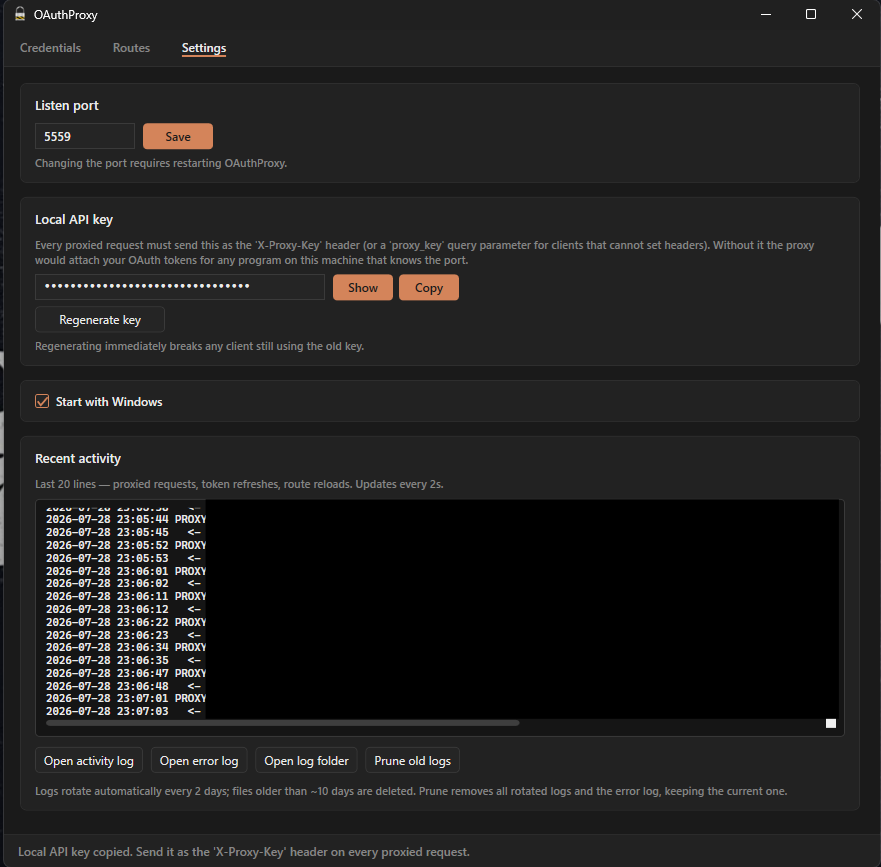
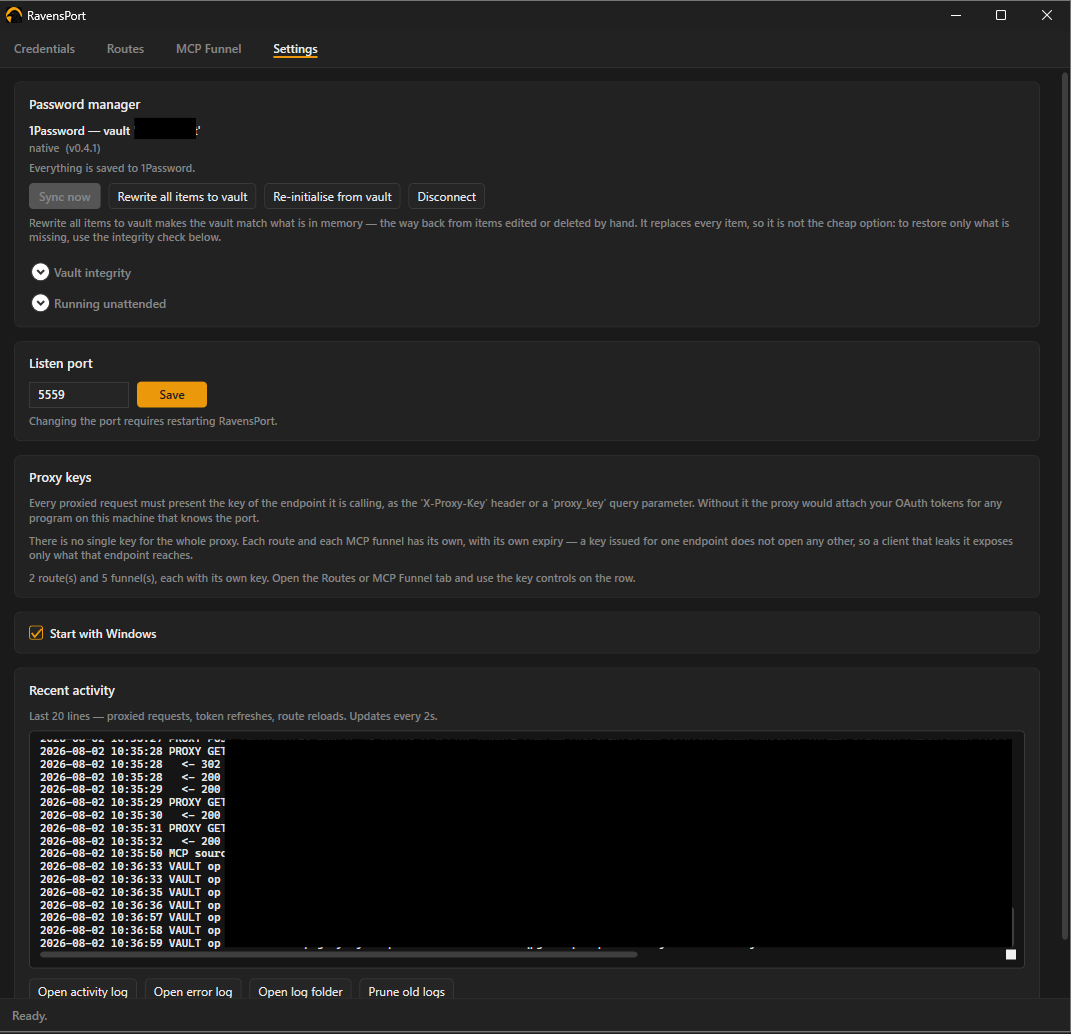
updated screenshots

diff --git a/THIRD-PARTY-NOTICES.md b/THIRD-PARTY-NOTICES.md
@@ -40,6 +40,7 @@ tools](#optional-external-tools-not-bundled) below.
 | Microsoft.Win32.SystemEvents | MIT |
 | System.CodeDom | MIT |
 | System.Management | MIT |
+| 1Password SDK (onepassword-sdk-go) | 0.4.1 | MIT |
 
 ## Build/test-only dependencies (not shipped in the executable)
 
@@ -51,14 +52,13 @@ tools](#optional-external-tools-not-bundled) below.
 
 ## Optional external tools (not bundled)
 
-RavensPort stores its configuration in a password manager and reaches it by running that
-manager's command-line tool as a separate child process. Those tools are **not** part of
-`RavensPort.exe` and are **not** redistributed with it.
+RavensPort stores its configuration in a password manager. For Proton Pass, it reaches it by running the
+`pass-cli` command-line tool as a separate child process. This tool is **not** part of
+`RavensPort.exe` and is **not** redistributed with it.
 
 | Component | License | How it is obtained |
 |---|---|---|
 | Proton Pass CLI (`pass-cli`) | **GPL-3.0-or-later** | Installed by you, or downloaded from Proton's official release on your explicit request |
-| 1Password CLI (`op`) | Proprietary (1Password) | Installed by you only. RavensPort never downloads or ships it — 1Password's API and SDK Terms of Service do not permit redistribution |
 
 ### Proton Pass CLI and the GPL
 
